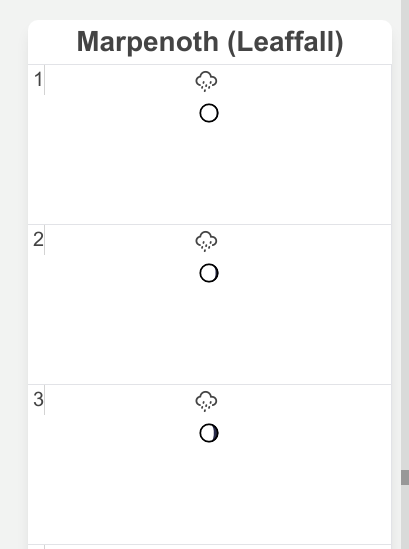
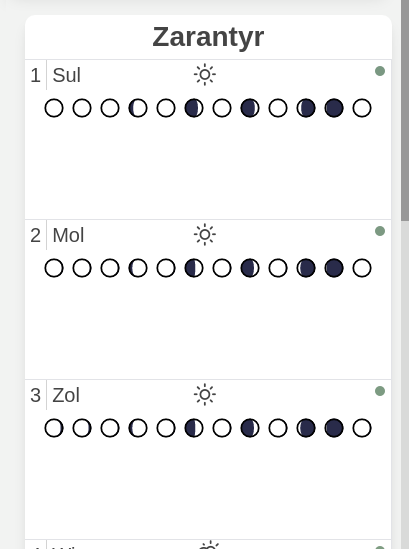
General layout cleanup and touching up

diff --git a/resources/sass/calendar/viewport.scss b/resources/sass/calendar/viewport.scss
@@ -216,7 +216,7 @@
     width: 10px;
     height: 10px;
     margin-top: 0.3rem;
-    margin-right: 0.1rem;
+    margin-right: 0.3rem;
     border-radius: 50%;
     opacity: 0.8;
 }
@@ -375,6 +375,9 @@
 
     .timespan_day{
         text-align:left;
+        &.week_end {
+            border-bottom:2px solid $calendar-border-color;
+        }
     }
 
     .toprow{
@@ -383,24 +386,27 @@
 
     .number{
         border-right:1px solid lightgrey;
+        padding-right:5px;
     }
 
     .timespan_day:first-child{
         border-top:0;
     }
 
-    .weekday{
-        text-align:center;
+    .week_day_name{
+        padding-left:5px;
+        text-align: left;
     }
 
     .event_container{
         align-self: flex-start;
         display: flex;
+        flex-direction: row;
         flex-wrap: wrap;
     }
 
     .event{
-        flex: 1 1 50%;
+        flex: 0 1 50%;
     }
 
 
@@ -489,12 +495,14 @@
 
             &.current_day {
                 background-color: $m-current-day;
-                border-bottom: 0;
                 color: #444;
 
                 &:hover {
                     cursor:pointer;
                     background-color: $current-day-color;
+                }
+                &:after {
+                    height:0px;
                 }
             }
 

diff --git a/resources/js/calendar/calendar_weather_layout.js b/resources/js/calendar/calendar_weather_layout.js
@@ -128,7 +128,7 @@ var calendar_weather = {
 			this.moon_container.toggleClass('hidden', !icon.hasClass('moon_popup'));
 
 			if(icon.hasClass('moon_popup')){
-				this.moon_container.children().first().html(this.insert_moons(epoch));
+				this.moon_container.html(this.insert_moons(epoch));
 			}
 
 			this.stop_hide = false;
@@ -250,7 +250,7 @@ var calendar_weather = {
 
 			let epoch_data = calendar_weather.epoch_data[epoch];
 
-			var moon_text = ['<div class="calendar_moon_container">'];
+			var moon_text = [];
 
 			if(Perms.player_at_least('co-owner') || !static_data.settings.hide_moons){
 
@@ -273,8 +273,6 @@ var calendar_weather = {
 				}
 
 			}
-
-			moon_text.push("</div>");
 
 			return moon_text.join('');
 			

diff --git a/resources/js/calendar/calendar_season_generator.js b/resources/js/calendar/calendar_season_generator.js
@@ -258,7 +258,7 @@ class Climate{
 		this.set_up_weather_epochs();
 
 
-		for(var epoch = this.start_epoch; epoch < this.end_epoch; epoch++){
+		for(var epoch = this.start_epoch; epoch <= this.end_epoch; epoch++){
 			this.epoch_data[epoch].season = this.get_static_season_data(epoch);
 			this.epoch_data[epoch].weather = this.get_static_weather_data(epoch);
 		}
@@ -587,7 +587,7 @@ class Climate{
 			}
 		}
 
-		for(var epoch = this.start_epoch; epoch < this.end_epoch; epoch++){
+		for(var epoch = this.start_epoch; epoch <= this.end_epoch; epoch++){
 
 			this.epoch_data[epoch].season = this.get_dynamic_season_data(epoch);
 			this.epoch_data[epoch].weather = this.get_dynamic_weather_data(epoch);

diff --git a/resources/js/calendar/calendar_manager.js b/resources/js/calendar/calendar_manager.js
@@ -168,8 +168,8 @@ worker_climate.onmessage = e => {
 
 	evaluated_static_data.epoch_data = e.data.epoch_data;
 	evaluated_static_data.processed_weather = e.data.processed_weather;
-	calendar_weather.epoch_data = clone(evaluated_static_data.epoch_data);
-	calendar_weather.processed_weather = clone(e.data.processed_weather);
+	calendar_weather.epoch_data = evaluated_static_data.epoch_data;
+	calendar_weather.processed_weather = e.data.processed_weather;
 	calendar_weather.start_epoch = evaluated_static_data.year_data.start_epoch;
 	calendar_weather.end_epoch = evaluated_static_data.year_data.end_epoch;
 

diff --git a/resources/js/calendar-renderer.js b/resources/js/calendar-renderer.js
@@ -40,17 +40,13 @@ const calendar_renderer = {
     },
 
     weather_click: function(day, event) {
-        if(day.weather_icon){
-            calendar_weather.tooltip.sticky($(event.target));
-        }
+        calendar_weather.tooltip.sticky($(event.target));
     },
 
     weather_mouse_enter: function(day, event) {
-        if(day.weather_icon){
-            calendar_weather.tooltip.show($(event.target));
-        }
+        calendar_weather.tooltip.show($(event.target));
     },
-
+    
     weather_mouse_leave: function() {
         calendar_weather.tooltip.hide();
     },

diff --git a/resources/js/render-data-generator.js b/resources/js/render-data-generator.js
@@ -350,6 +350,9 @@ const render_data_generator = {
 
                             if(week_day > timespan.week.length){
                                 week_day = 1;
+                                if(render_data.render_style == "vertical"){
+                                    day_data.extra_class = "week_end"
+                                }
                             }
                         }
 

diff --git a/resources/views/layouts/calendar-vertical.blade.php b/resources/views/layouts/calendar-vertical.blade.php
@@ -36,9 +36,14 @@
                     'timespan_day empty_timespan_day': day.type == 'empty',
                     'current_day': day.epoch == render_data.current_epoch,
                     'preview_day': day.epoch == render_data.preview_epoch && render_data.preview_epoch != render_data.current_epoch,
+                    [day.extra_class]: day.extra_class
                 }" :epoch="day.epoch">
                     <div class="day_row d-flex justify-content-between">
-                        <div class="number" x-text="day.number" x-show="day.number"></div>
+
+                        <div class="d-flex">
+                            <div class="number" x-text="day.number"></div>
+                            <div class="week_day_name" x-text="day.weekday"></div>
+                        </div>
 
                         <div class="weather_popup center"
                             x-show="day.weather_icon"

diff --git a/resources/views/layouts/weather_tooltip.blade.php b/resources/views/layouts/weather_tooltip.blade.php
@@ -1,6 +1,6 @@
 <div id='weather_tooltip_box'>
 	<div class='bold-text moon_title hidden'>Moons:</div>
-	<div class='moon_container hidden'><div class='row mb-2'></div></div>
+	<div class='moon_container hidden flex justify-content-center flex-wrap'></div>
 	<div class='weather_title bold-text'>Weather:</div>
 	<div><span class='bold-text'>Description:</span> <span class='weather_temp_desc'></span></div>
 	<div><span class='bold-text'>Temperature:</span> <span class='weather_temp'></span></div>
